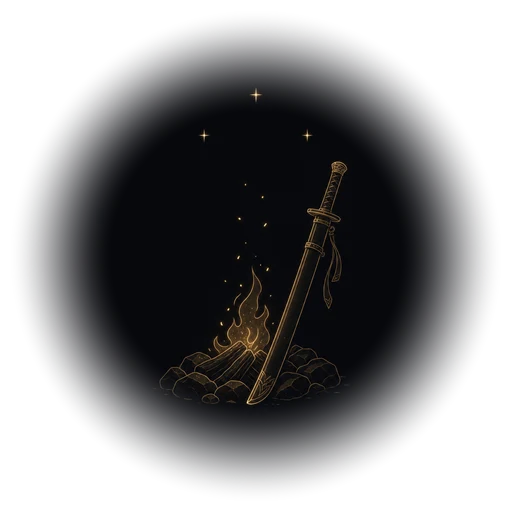
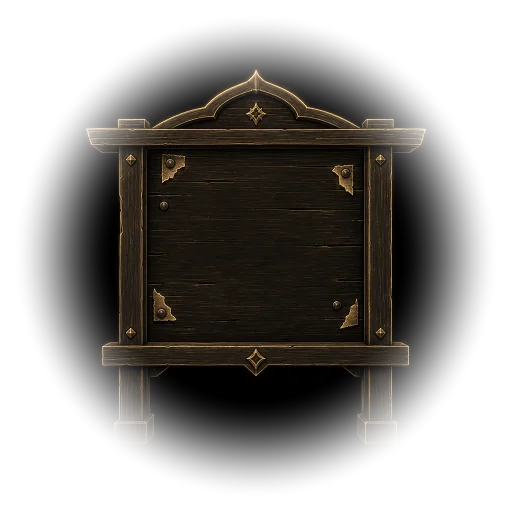
Design pass: mode hero art in mission modal headers + bounty-board empty state
- MissionModalShell header now renders the mode hero key art (guild/family/
  couple, same set as onboarding) full-bleed behind the role/title/context
  rows, with a dark legibility scrim, mode-accent wash, text shadows, and
  per-mode focal objectPosition; state accent strip lifted to z-10.
- empty-missions.webp regenerated via the codex image pipeline: sword-in-
  campfire replaced by an empty bounty board with torn parchment scraps
  under nails (gold engraving on black, true-alpha circular vignette),
  style-matched to the rest of the empty-state set. Master PNG kept in
  assets-src/generated/.

tsc 0 errors, build green, 82/82 tests.

Changed region(s): [[0.1562, 0.125, 0.8438, 0.8438]]

diff --git a/src/components/modals/MissionModalShell.tsx b/src/components/modals/MissionModalShell.tsx
@@ -36,6 +36,9 @@ import { getOverlayRoot } from '../../lib/overlayRoot';
 import { Coin } from '../visual/Coin';
 import { TypeEmblem } from '../visual/TypeEmblem'; // R35: mode gift emblem for text rewards
 import { RewardImageLightbox } from './RewardImageLightbox';
+import heroGuild from '../../assets/generated/hero-guild.webp';
+import heroFamily from '../../assets/generated/hero-family.webp';
+import heroCouple from '../../assets/generated/hero-couple.webp';
 
 // ============================================================================
 // Types
@@ -113,6 +116,16 @@ const roleIconMap = {
   PenSquare,
   Heart,
   Gift,
+};
+
+// Mode hero key art (1024x683, same set as onboarding step 1) rendered behind
+// the modal header. objectPosition picks the focal slice per image: guild's
+// bounty board sits right of center, family's star chart hugs the right edge,
+// couple's gift exchange is centered slightly below the midline.
+const modeHero: Record<ThemeId, { src: string; position: string }> = {
+  guild: { src: heroGuild, position: '62% 30%' },
+  family: { src: heroFamily, position: '65% 28%' },
+  couple: { src: heroCouple, position: '50% 42%' },
 };
 
 // ============================================================================
@@ -282,61 +295,97 @@ export const MissionModalShell: React.FC<MissionModalShellProps> = ({
         {/* State Border Accent */}
         {stateConf.hasBorderAccent && (
           <div
-            className="absolute top-0 left-0 right-0 h-[3px] rounded-t-2xl"
+            className="absolute top-0 left-0 right-0 h-[3px] rounded-t-2xl z-10"
             style={{
               background: `linear-gradient(90deg, transparent, ${stateConf.color}, transparent)`,
             }}
           />
         )}
 
-        {/* Header */}
-        <div className="flex-shrink-0 px-4 sm:px-6 py-4 border-b border-white/10">
-          {/* Top row: Role label + State chip + Close */}
-          <div className="flex items-center justify-between gap-3 mb-3">
-            <div className="flex items-center gap-2">
-              <div
-                className="p-1.5 rounded-lg"
-                style={{ backgroundColor: modeConfig.accentSoft }}
-              >
-                <RoleIcon size={16} style={{ color: modeConfig.accent }} />
+        {/* Header — mode hero art behind the role/title/context rows */}
+        <div className="relative flex-shrink-0 border-b border-white/10 overflow-hidden">
+          <img
+            src={modeHero[mode].src}
+            alt=""
+            aria-hidden="true"
+            draggable={false}
+            className="absolute inset-0 h-full w-full object-cover select-none"
+            style={{ objectPosition: modeHero[mode].position }}
+          />
+          {/* Legibility scrim: darkens toward the bottom so the title/context
+              rows melt into the modal material, plus a faint mode-accent wash
+              at the top to tie the art to the theme. */}
+          <div
+            className="absolute inset-0"
+            style={{
+              background:
+                'linear-gradient(180deg, rgba(5,8,14,0.40) 0%, rgba(5,8,14,0.60) 55%, rgba(5,8,14,0.92) 100%)',
+            }}
+          />
+          <div
+            className="absolute inset-0"
+            style={{
+              background: `linear-gradient(180deg, rgba(${modeConfig.accentRgb}, 0.10) 0%, transparent 65%)`,
+            }}
+          />
+
+          <div className="relative px-4 sm:px-6 pt-5 pb-4 sm:pt-6">
+            {/* Top row: Role label + State chip + Close */}
+            <div className="flex items-center justify-between gap-3 mb-3">
+              <div className="flex items-center gap-2">
+                <div
+                  className="p-1.5 rounded-lg backdrop-blur-sm"
+                  style={{ backgroundColor: modeConfig.accentSoft }}
+                >
+                  <RoleIcon size={16} style={{ color: modeConfig.accent }} />
+                </div>
+                <span
+                  className="text-sm font-medium"
+                  style={{
+                    color: modeConfig.accent,
+                    textShadow: '0 1px 2px rgba(0,0,0,0.8)',
+                  }}
+                >
+                  {roleConf.headerLabel}
+                </span>
               </div>
-              <span
-                className="text-sm font-medium"
-                style={{ color: modeConfig.accent }}
-              >
-                {roleConf.headerLabel}
-              </span>
+
+              <div className="flex items-center gap-3">
+                <StateChip state={state} className="backdrop-blur-sm" />
+                <button
+                  onClick={handleClose}
+                  className="min-w-[44px] min-h-[44px] flex items-center justify-center rounded-lg hover:bg-white/10 transition-colors z-modal-controls"
+                  aria-label="Close modal"
+                >
+                  <X size={20} className="text-white/60 hover:text-white" />
+                </button>
+              </div>
             </div>
 
-            <div className="flex items-center gap-3">
-              <StateChip state={state} />
-              <button
-                onClick={handleClose}
-                className="min-w-[44px] min-h-[44px] flex items-center justify-center rounded-lg hover:bg-white/10 transition-colors z-modal-controls"
-                aria-label="Close modal"
-              >
-                <X size={20} className="text-white/60 hover:text-white" />
-              </button>
+            {/* Title */}
+            <h2
+              className="text-xl sm:text-2xl font-bold text-white mb-2 line-clamp-2"
+              style={{ textShadow: '0 1px 3px rgba(0,0,0,0.9)' }}
+            >
+              {title}
+            </h2>
+
+            {/* Context row: Avatar + From/To */}
+            <div
+              className="flex items-center gap-2 text-sm text-white/70"
+              style={{ textShadow: '0 1px 2px rgba(0,0,0,0.8)' }}
+            >
+              {contextUser?.avatar ? (
+                <img
+                  src={contextUser.avatar}
+                  alt={contextUser.name}
+                  className="w-5 h-5 rounded-full object-cover"
+                />
+              ) : (
+                <User size={16} className="text-white/40" />
+              )}
+              <span>{contextLabel}</span>
             </div>
-          </div>
-
-          {/* Title */}
-          <h2 className="text-xl sm:text-2xl font-bold text-white mb-2 line-clamp-2">
-            {title}
-          </h2>
-
-          {/* Context row: Avatar + From/To */}
-          <div className="flex items-center gap-2 text-sm text-white/60">
-            {contextUser?.avatar ? (
-              <img
-                src={contextUser.avatar}
-                alt={contextUser.name}
-                className="w-5 h-5 rounded-full object-cover"
-              />
-            ) : (
-              <User size={16} className="text-white/40" />
-            )}
-            <span>{contextLabel}</span>
           </div>
         </div>
 

diff --git a/protocol/LOG.md b/protocol/LOG.md
@@ -15,3 +15,5 @@
 2026-07-08T21:30+08:00 | main | Michael go: committed Phase-2 tree as 47e7eb7 (38 files; db_cluster-*.backup/ gitignored). Phase 3 executed end-to-end: 16 art masters generated via parallel codex:codex-rescue agents (gpt-image-2) — caught 3 shared-output-pool races (wrong image under right filename) + 1 path hallucination + 1 exit-127, regenerated serialized with per-image visual verification; post-processed via System.Drawing pipeline (magenta/green chroma-key + defringe, radial fade, HQ resize) + ffmpeg to 17 WebP (566 KB) in src/assets/generated; wired by 5 sub-agents (2 Opus) with disjoint file ownership, every diff reviewed centrally: Coin raster face (API preserved), TypeEmblem per-mode gift medallions replacing emoji, type-based card accents (credit=gold/gift=mode via getTypeAccentVariant; hash accents stay on store cards), dormant daily badge, onboarding hero banners, EmptyState.illustration + 5 pages, RewardCard placeholder rotation (user emoji wins), iOS AppIcon 1024 + 3x2732 splash on #100F10. Committed 37b3a4b (51 files). | evidence: central re-verify build PASS, lint 0 err/3 warn, vitest 44/44, tsc 15 baseline/0 net-new; all images eyeballed in-session
 2026-07-08T23:55+08:00 | main | Phase 4 sound & haptics committed as 70bdff3 (15 files): @capacitor/haptics@8 + src/utils/feedback.ts semantic API (tap/success/payday/warning/error; haptics respect the sound toggle; plugin lazy-imported); AppButton/Fab light impact; all 14 soundManager.play sites routed through feedback (approve = success buzz + approveProof + payday instead of success×2+coin; reject/delete = warning; claim = payday, was silent); soundManager per-sound volume pass + payday key; 5 new vitest specs. Root-caused a dev-only white screen: static @capacitor/haptics import corrupts vite optimizer chunk generations → duplicate React → invalid-hook crash (prod build unaffected); fixed via dynamic import, verified by stash-bisect. | evidence: build PASS, lint 0 err/3 warn, vitest 49/49, tsc 15 baseline/0 net-new; browser smoke on dev server (login renders clean, feedback.tap/payday fired via console without errors)
 2026-07-11T00:55+08:00 | main | Michael's first live 2-browser prod test findings triaged + shipped: theme-leak root-caused via codex (stale localStorage bounty_theme, NOT the invite link; 3 persistence gaps) → hardening (PUBLIC_THEME_IDS shared policy, ThemeProvider rewrite: profile authoritative/cache-only localStorage/logout clears/fresh accounts normalized guild, onboarding Next+Skip persist, per-user onboarding flag); UX fixes: Invite-someone→share flow, friendships-changed event fixes stale nav badge, onboarding max-w-2xl + responsive hero (art 1024x683 was a 112px strip), step-3 explainer redesigned workflow-first (hover/tap reveals per-step fields), post-signup check-your-email view, MissionModalShell empty-description fix; Supabase email templates → supabase/templates/ (dashboard paste = Michael) | evidence: tsc 0, vitest 14 files/82 tests PASS (3 new policy tests), build PASS, lint 0 err/3 warn | via codex (investigation) + central implementation
[phone redacted] | main | Mission modal hero headers: MissionModalShell header now renders mode hero art (hero-guild/family/couple.webp, objectPosition per mode) behind role/title/context rows with dark scrim + accent wash + text shadows; state accent strip z-10 fix | evidence: tsc 0 errors, vitest 14 files/82 tests green | via self
[phone redacted] | main | Empty-missions art regenerated: sword-in-campfire -> empty bounty board (torn scraps under nails), gold-engraving style matched to set; master assets-src/generated/empty-missions-board-v1.png, final src/assets/generated/empty-missions.webp 512x512 21.8KB true alpha, corners transparent | evidence: visually verified in-chat, build green 2.18s, vitest re-run below | via codex